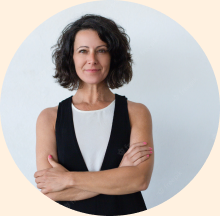
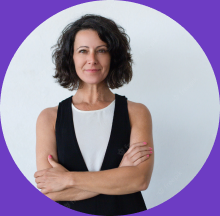
Agregué media queries

diff --git a/css/styles.css b/css/styles.css
@@ -13,7 +13,7 @@
 /* Navigation bar */
 
 header {
-    background-color: #B50F2D;
+    background-color: #6d3cc3;
     position: sticky;
     top: 0;
     z-index: 1;
@@ -60,7 +60,7 @@ header h2 {
 
 .button-white {
     background-color: #FFF1E0;
-    color:#B50F2D;
+    color:#6d3cc3;
     padding: 10px 20px;
     border-radius: 20px;
     
@@ -73,8 +73,8 @@ header h2 {
 /* Main */
 
 body {
-    background-color: #FFF1E0;
-    color:#B50F2D;
+    background-color: #6d3cc3;
+    color: #fffeff;
     font-family: 'DM Sans', sans-serif;
 }
 
@@ -86,9 +86,10 @@ p, h1, h2 {
 /* Footer */
 
 footer {
-    background-color: #B50F2D;
+    background-color: #6d3cc3;
     position: relative;
     bottom: 0;
+    border-top: 1px solid #9258f7;
 }
 
 
@@ -99,6 +100,7 @@ footer ul {
 
 footer ul li {
     margin: 10px 10px;
+    list-style: none;
 }
 
 
@@ -144,21 +146,27 @@ footer ul li {
 
 /* Página: Home */
 
+.home__container {
+    display:flex;
+    flex-direction: column;
+    align-items: center;
+}
 .titulo-home{
-    width: 400px
+    width: 100%;
+    text-align: center;
 }
 
 .img-home{
-    display: inline-block;
-    position: relative;
-    left: 35%;
-    bottom: 300px;
+    width: 100%
 }
 
 /* Página: Contacto */
 
 .datos-contacto {
     margin: 20px 20px;
+    width: 100%;
+    display: flex;
+    justify-content: flex-start;
 }
 .datos-contacto fieldset {
     padding: 20px 20px;
@@ -168,15 +176,19 @@ footer ul li {
     margin: 10px 0px;
 }
 
-.datos-contacto fieldset form .button-pink {
-    background-color:#B50F2D;
+.button-pink {
+    background-color:#6d3cc3;
     color:#FFF1E0;
     padding: 10px 20px;
     margin: 0px 15px;
     border-radius: 20px;
-    border-style: none;
+    border-color: #FFF1E0;
+    border-style: outset;
 }
-
+.button-pink:hover {
+    color:#6d3cc3;
+    background-color: #FFF1E0;
+}
 
 /* Página: Pedir un turno */
 
@@ -212,8 +224,8 @@ footer ul li {
 .card {
     display:flex;
     justify-content: space-evenly;
-    background-color: #B50F2D;
-    color:white;
+    background-color: #FFF1E0;
+    color:#442679;
 }
 
 
@@ -234,3 +246,63 @@ footer ul li {
     font-size: 100%;
 }
 
+/* Media queries */
+
+/* -Tablet */
+
+@media only screen and (min-width: 576px) and (max-width: 768px) {
+        /*tratamientos*/
+
+        .tratamientos {
+    
+            grid-template-rows: repeat(2, 1fr);
+            grid-template-columns: repeat(2, 1fr);
+            grid-column-gap: 10px;
+            grid-row-gap: 20px;
+            margin: 10px;
+        
+        }
+
+        .card {
+            flex-direction: column;
+        }
+}
+
+/* -Mobile */
+
+@media only screen and (max-width: 576px) {
+    /* estilos generales: nav y home */
+    header{
+        flex-direction: column;
+        align-items: center;
+    }
+    .header__logo {
+        width: 90%;
+        justify-content: center;
+    }
+    nav ul li a {
+        font-size: 70%;
+    }
+
+    .menu-nav ul li {
+        margin: 0px 5px;
+    }
+
+    /*quiénes somos*/
+
+    .section-container{
+        flex-direction: column;
+    }
+
+    /*tratamientos*/
+
+    .card {
+        flex-direction: column;
+    }
+
+    /*contacto*/
+    .datos-contacto {
+        justify-content: center;
+    }
+
+}

diff --git a/index.html b/index.html
@@ -31,10 +31,10 @@
     </header>
 
     <main>
-        <h1 class="titulo-home">Cuando te atendés con profesionales de la salud, estás en buenas manos</h1>
-        <p class="titulo-home">Lorem ipsum dolor sit, amet consectetur adipisicing elit. Ullam quibusdam, hic aliquam mollitia maxime similique aliquid earum iusto aut error nesciunt sequi nam possimus nulla, fuga eos accusantium! Doloremque modi aliquam, doloribus pariatur suscipit corrupti officiis rem, cupiditate eum ut ab animi enim! Ipsam minus nesciunt dolorum sunt consectetur sequi.</p>
-        <div>
+        <div class="home__container">
             <img class="img-home" src="./imgs/Rectangle 647.png" alt="masaje" width="850" height="auto"/>
+            <h1 class="titulo-home">Cuando te atendés con profesionales de la salud, estás en buenas manos</h1>
+            <p class="titulo-home">Lorem ipsum dolor sit, amet consectetur adipisicing elit. Ullam quibusdam, hic aliquam mollitia maxime similique aliquid earum iusto aut error nesciunt sequi nam possimus nulla, fuga eos accusantium! Doloremque modi aliquam, doloribus pariatur suscipit corrupti officiis rem, cupiditate eum ut ab animi enim! Ipsam minus nesciunt dolorum sunt consectetur sequi.</p>
         </div>
     </main>
    

diff --git a/README.md b/README.md
@@ -1,0 +1,3 @@
+# Página web (Curso Coderhouse)
+
+### Kinesiología MM
